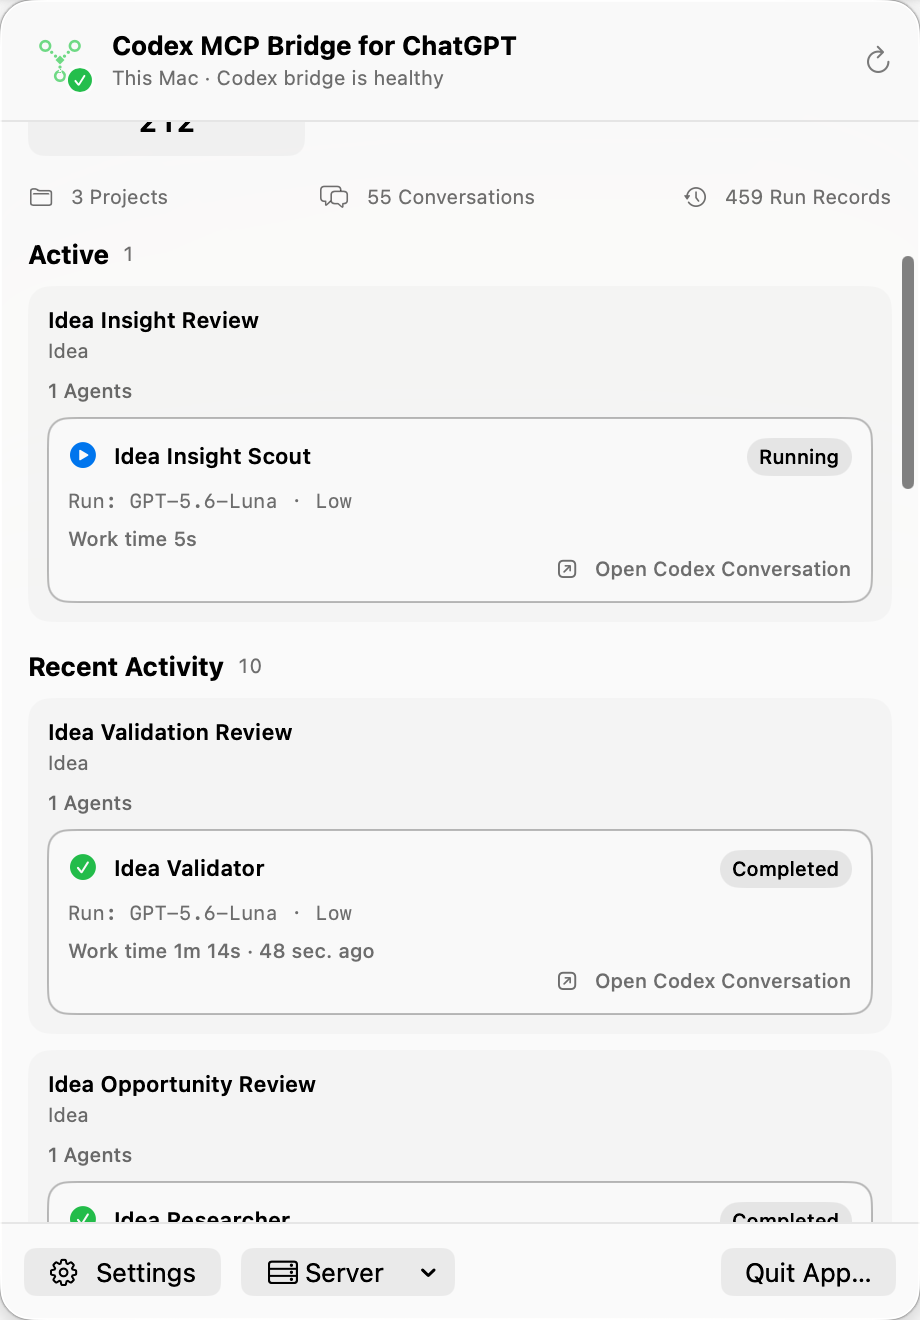
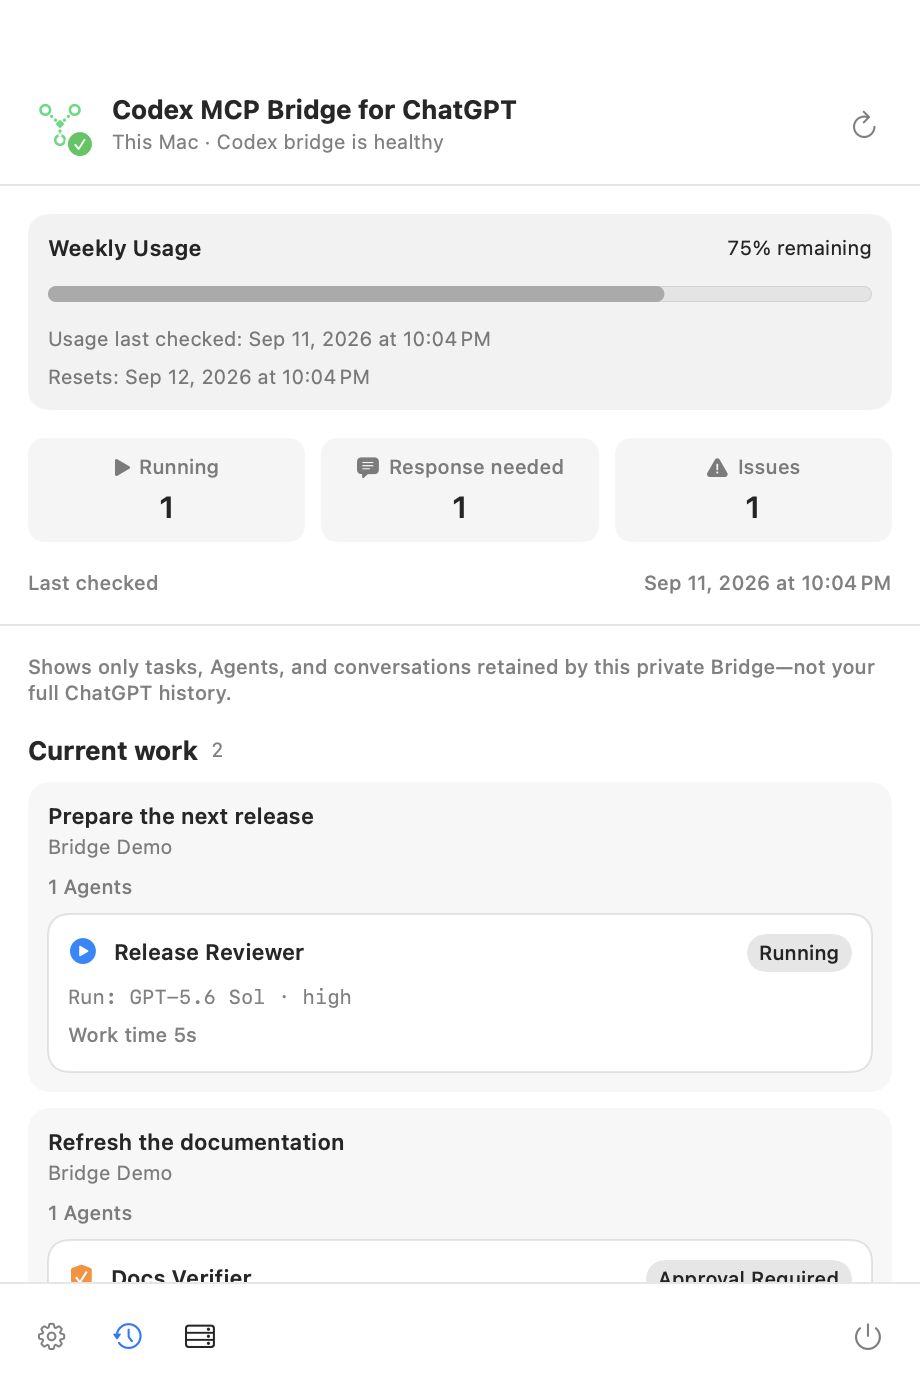
docs: refresh README screenshots

diff --git a/test/documentationNaming.test.ts b/test/documentationNaming.test.ts
@@ -51,6 +51,7 @@ describe("documentation naming", () => {
       "macos-dashboard-light-en.png",
       "macos-app-roles-light-en.png",
       "chatgpt-dashboard-light-en.png",
+      "chatgpt-settings-light-en.png",
       "macos-pairing-invitation-light-en.png"
     ]) {
       expect(readme).toContain(`docs/images/${image}`);

diff --git a/README.md b/README.md
@@ -8,7 +8,7 @@ Use ChatGPT to run Codex against projects on your own computer, keep work organi
 
 - Run and continue local Codex work from a ChatGPT conversation.
 - Organize work as reusable Agents and goal-oriented Activities instead of isolated terminal calls.
-- See running work, requests needing a response, and problems from the native macOS menu-bar app or the ChatGPT status card. Select a count to filter the current work and run history. The card starts with this conversation when it has retained work, with a switch to all conversations.
+- See running work, requests needing a response, and problems from the native macOS menu-bar app or the ChatGPT status card. Select a summary count to filter current work, or open Run History. The card starts with this conversation when it has retained work, with a switch to all conversations.
 - Choose which project folders Codex may use and control model, reasoning, concurrency, and access policy centrally.
 - Run one Mac as the server and use another Mac as a client for status and settings.
 - Keep the normal starting policy read-only and place an operator-controlled ceiling on broader access.
@@ -25,13 +25,13 @@ ChatGPT
 On macOS, open the menu-bar icon to check the selected server without opening ChatGPT:
 
 - **Connection and Codex usage:** server/client target, Bridge health, and—when available—weekly Codex usage remaining with its reset time.
-- **Work state:** running, response-required, and problem counts, plus a conditional background-process indicator. Selecting a count filters the loaded snapshot without another server read.
-- **Activity details:** current status lists and 12-row on-demand run history, with project, conversation, Agent, actual model, canonical lowercase reasoning effort, conditional next-run settings, snapshot work time, and background processes.
+- **Work state:** running, response-required, and issue counts, plus a conditional background-process indicator. Selecting a count filters the loaded current-work snapshot without another server read.
+- **Activity details:** filtered current-work lists or 12-row on-demand run history, with project, conversation, Agent, actual model, canonical lowercase reasoning effort, conditional next-run settings, snapshot work time, and background processes.
 - **Quick actions:** refresh status, continue a conversation in Codex after verified connection release, open Settings, control the server, or quit the app. See [conversation connections and retention](docs/thread-lifecycle.md) for waiting reasons, persistence constraints and returning to the bridge.
 
 <p align="center">
-  <img src="docs/images/macos-menubar-usage-light-en.png" alt="English macOS menu-bar app in light appearance showing weekly Codex usage, reset time, work-state counts, and tracked totals" width="360">
-  <img src="docs/images/macos-dashboard-light-en.png" alt="English macOS menu-bar overview in light appearance showing one running Agent and one completed recent Agent" width="360">
+  <img src="docs/images/macos-menubar-usage-light-en.png" alt="English macOS menu-bar app in light appearance showing weekly Codex usage and the three current work-state counts" width="360" valign="top">
+  <img src="docs/images/macos-dashboard-light-en.png" alt="English macOS menu-bar app in light appearance with Work and Run History selected, showing current Agents and their actual execution settings" width="360" valign="top">
 </p>
 
 ## Choose how to use it
@@ -100,7 +100,7 @@ After the server reports that the Bridge and Tunnel are ready:
 Routine computer, app, Bridge, or Tunnel restarts do not require a ChatGPT connection refresh. Refresh the connection after installing a release that changes tools or card UI.
 
 <p align="center">
-  <img src="docs/images/chatgpt-dashboard-light-en.png" alt="English ChatGPT Codex overview in light appearance showing a running Agent and recent Codex work" width="645">
+  <img src="docs/images/chatgpt-dashboard-light-en.png" alt="English ChatGPT Codex status card in light appearance showing conversation scope, three current work-state counts, Run History, and a background-process indicator" width="645">
 </p>
 
 ## Settings at a glance
@@ -112,7 +112,11 @@ Routine computer, app, Bridge, or Tunnel restarts do not require a ChatGPT conne
 | Projects | The folders Codex may use for new work |
 | Server | Codex backend and the maximum access the server may grant |
 
-General settings are saved automatically and are shared by every ChatGPT conversation using that server. In client mode, General and Projects edit the selected remote server. The login-at-startup preference always belongs to the current Mac. Server settings require an explicit save and restart.
+Changes in the native app's General tab are saved automatically. In the ChatGPT Settings card, choose **Save settings** after editing. These settings are shared by every ChatGPT conversation using that server. In client mode, General and Projects edit the selected remote server. The login-at-startup preference always belongs to the current Mac. Server settings require an explicit save and restart.
+
+<p align="center">
+  <img src="docs/images/chatgpt-settings-light-en.png" alt="English ChatGPT settings card in light appearance showing access strategy, execution model policy, project registration, interface language, and concurrency" width="645">
+</p>
 
 For every option and its effect, see [Setup and settings](docs/setup.md#settings-reference).
 

diff --git a/docs/setup.md b/docs/setup.md
@@ -122,7 +122,7 @@ New tasks do not open Activity cards. Settings and independent question cards
 cover configuration and questions that need your input.
 
 <p align="center">
-  <img src="images/chatgpt-dashboard-light-en.png" alt="ChatGPT status card showing work in the bridge" width="645">
+  <img src="images/chatgpt-dashboard-light-en.png" alt="English ChatGPT status card showing conversation scope, three current work-state counts, Run History, and background processes" width="645">
 </p>
 
 ## macOS client mode
